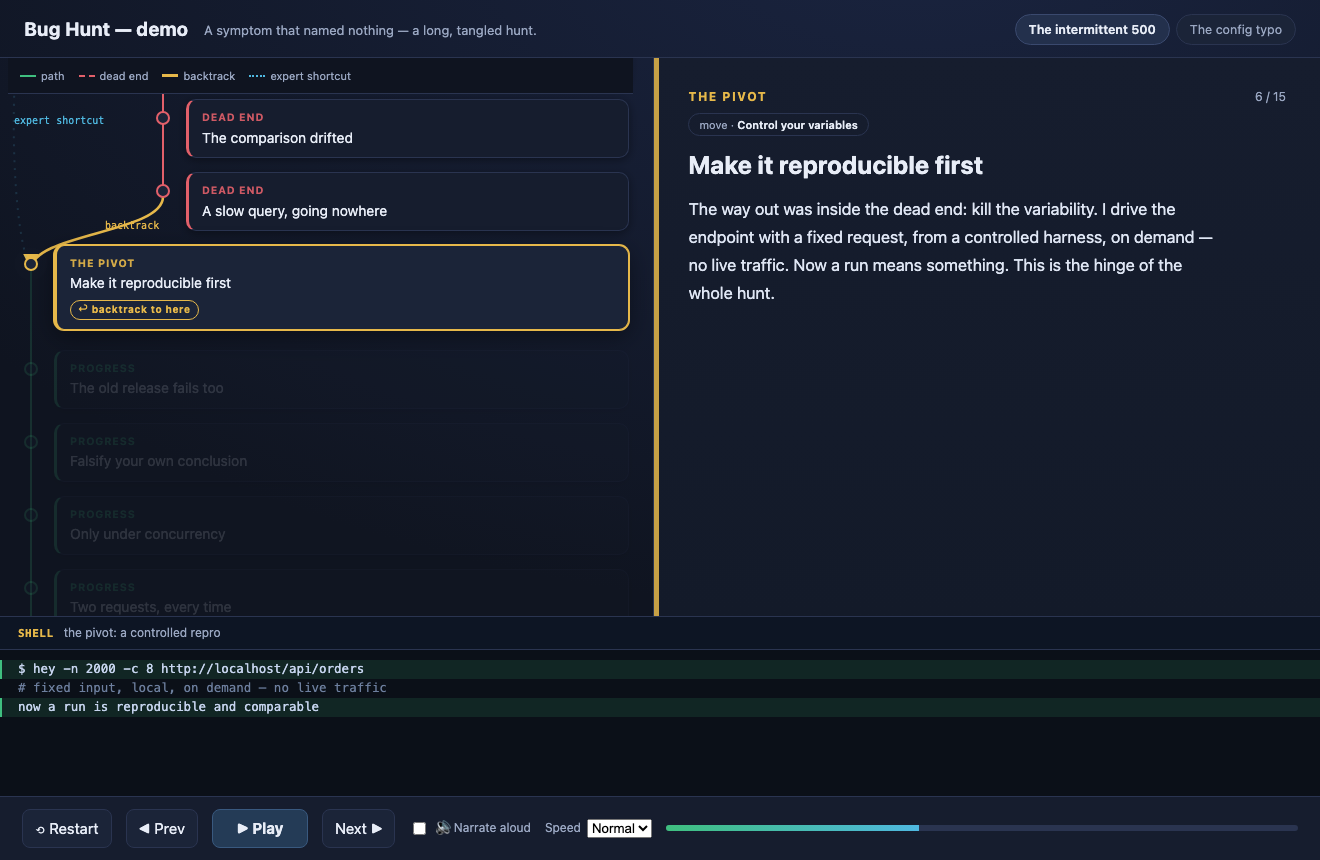
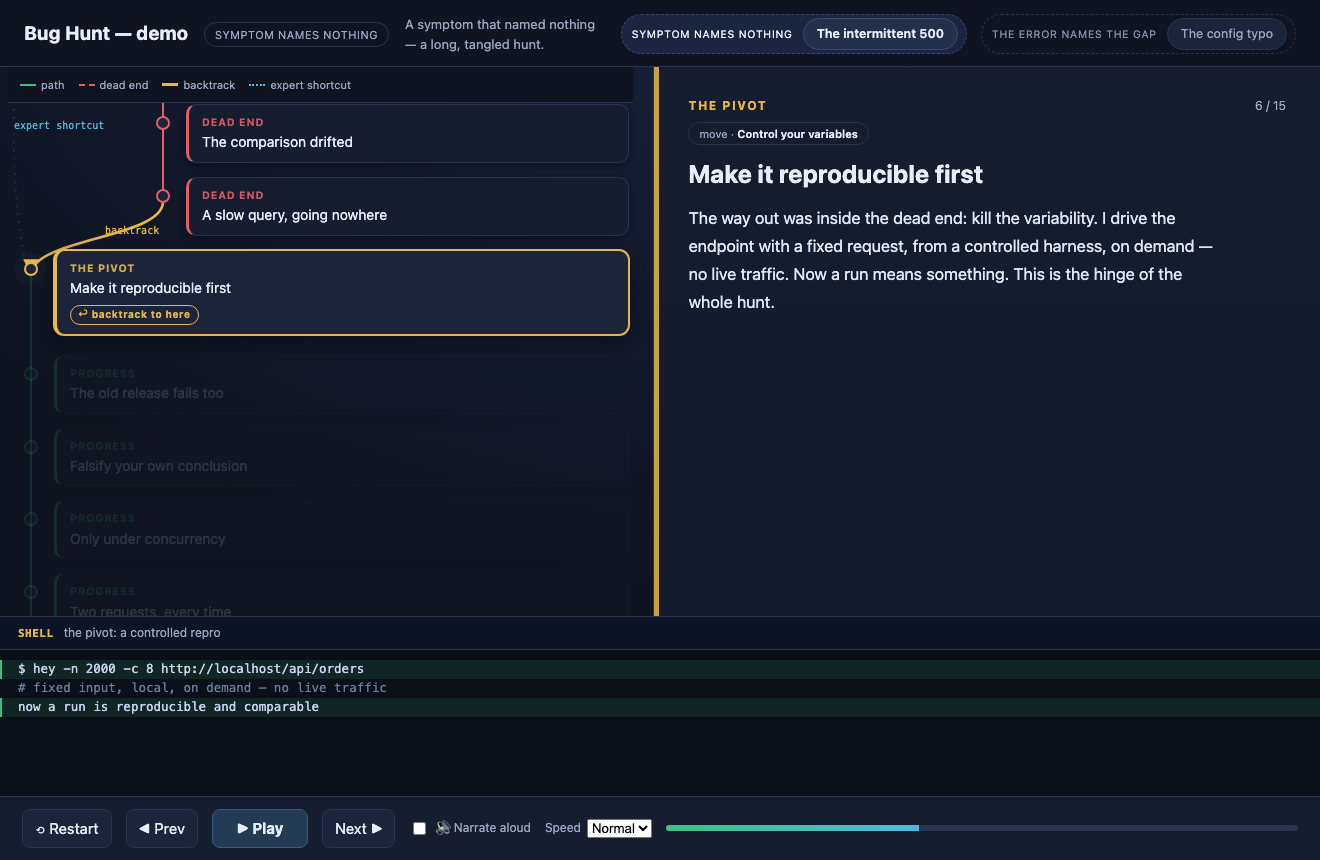
Group cases into clusters in the selector
Once there are more than a handful of hunts, a flat row of chips stops being
navigable and — more importantly — stops teaching anything. The insight in this
tool is the diff between graphs, so the selector should say which hunts are
meant to be compared.

Add an optional `window.CASE_GROUPS = [{id, name, blurb, cases:[...]}]`. Each
group renders as a labelled chip-group, the active one is highlighted, and the
selected case's cluster also appears as a pill beside the title (blurb as the
tooltip on both). Omit CASE_GROUPS and the selector is exactly the flat row it
was; cases in no group are appended unlabelled at the end.

The axis to cluster on is *what produced the decisive evidence* — not the kind
of bug. That is what dictates the shape of the graph, and so what the case can
teach. docs/moves.md replaces "The two shapes to contrast" with the four
clusters that fall out of it: symptom names nothing / the error names the gap /
an outside oracle found it / no symptom at all. The demo's two cases are
grouped into the first two, so the feature is self-demonstrating.

Also in docs/moves.md: nine moves that were already in use but undefined
(Bring a better oracle, Audit the invariant, Check upstream first, Narrow the
fix, Strengthen the repro, Fence the scope, Bisect (misapplied), Trace to the
origin, Find the gap). The point of the vocabulary is that ids match across
cases, so an undocumented move is a hole in it. For the same reason the demo's
[…]

diff --git a/index.html b/index.html
@@ -18,13 +18,29 @@
     font:15px/1.55 -apple-system,BlinkMacSystemFont,"Segoe UI",Roboto,Helvetica,Arial,sans-serif;
     display:flex;flex-direction:column;height:100vh;overflow:hidden}
   header{padding:14px 24px 12px;border-bottom:1px solid var(--line);
-    display:flex;align-items:center;gap:16px;flex-wrap:wrap}
+    display:flex;align-items:center;gap:16px;flex-wrap:wrap;
+    /* opaque: on narrow screens the header is sticky over a scrolling page,
+       and a transparent one lets the timeline show through it */
+    background:var(--bg)}
   header h1{font-size:19px;margin:0;letter-spacing:.2px}
   header .sub{color:var(--muted);font-size:13px;flex:1;min-width:180px}
-  .cases{display:flex;gap:6px;flex-wrap:wrap}
+  .cases{display:flex;gap:6px 14px;flex-wrap:wrap;align-items:center}
   .cases button{font:inherit;font-size:12.5px;color:var(--muted);background:var(--panel2);
     border:1px solid var(--line);border-radius:20px;padding:5px 13px;cursor:pointer}
   .cases button.on{color:var(--ink);border-color:#3a496e;background:#23304c;font-weight:600}
+  /* a cluster of cases that share a debugging technique */
+  .cases .grp{display:flex;align-items:center;gap:6px;padding:3px 8px 3px 4px;
+    border:1px dashed var(--line);border-radius:22px;
+    flex-wrap:wrap;max-width:100%;min-width:0}
+  .cases .grp>.glab{font-size:10.5px;letter-spacing:.7px;text-transform:uppercase;
+    color:var(--muted);opacity:.85;padding:0 4px 0 6px;cursor:help;white-space:nowrap;
+    max-width:100%;overflow:hidden;text-overflow:ellipsis}
+  .cases .grp.active{border-color:#3a496e;background:#1b2540}
+  .cases .grp.active>.glab{color:var(--ink);opacity:1}
+  header .cluster{font-size:11px;letter-spacing:.5px;text-transform:uppercase;
+    color:var(--muted);border:1px solid var(--line);border-radius:20px;
+    padding:3px 10px;white-space:nowrap;cursor:help}
+  header .cluster:empty{display:none}
   main{flex:1;display:grid;grid-template-columns:minmax(340px,1fr) minmax(360px,1.02fr);min-height:0}
   .timeline{overflow-y:auto;padding:0 20px 40vh 8px;position:relative}
   #edges{position:absolute;top:0;left:0;pointer-events:none;z-index:0;overflow:visible}
@@ -110,12 +126,22 @@
     .stage h2{font-size:20px}.narr{font-size:15px;max-width:none}
     .code{height:150px}
     footer{position:sticky;bottom:0;z-index:10}
+    /* the pill just repeats the highlighted group chip; the header is tight here */
+    header .cluster{display:none}
+    header .sub{flex-basis:100%}
+    /* give the selector the full row, and let each cluster label sit on its own
+       line above its chips — label + a long chip does not fit side by side */
+    .cases{flex-basis:100%;width:100%}
+    .cases .grp{width:100%}
+    .cases .grp>.glab{flex-basis:100%;padding-bottom:2px}
+    .cases button{max-width:100%}
   }
 </style>
 </head>
 <body>
   <header>
     <h1 id="apptitle">Bug Hunt</h1>
+    <span class="cluster" id="cluster"></span>
     <span class="sub" id="subtitle">—</span>
     <div class="cases" id="cases"></div>
   </header>
@@ -188,12 +214,34 @@ if(!CASE_IDS.length){
 function runEngine(){
 let state={cid:CASE_IDS[0],cur:-1}, nodeEls=[], playing=false, timer=null, curUtter=null, audioEl=null;
 
-CASE_IDS.forEach(cid=>{
+/* ---- selector, optionally clustered by technique -----------------------------
+   window.CASE_GROUPS = [{id, name, blurb, cases:[caseId,...]}, ...]
+   Cases not listed in any group are appended, unlabelled, at the end. With no
+   CASE_GROUPS at all the selector is a plain flat row (the original layout). */
+const GROUPS=(window.CASE_GROUPS||[]).filter(g=>g&&Array.isArray(g.cases));
+const GROUP_OF={};
+GROUPS.forEach(g=>g.cases.forEach(cid=>{ if(CASES[cid]) GROUP_OF[cid]=g; }));
+const UNGROUPED=CASE_IDS.filter(cid=>!GROUP_OF[cid]);
+
+function mkCaseBtn(cid){
   const b=document.createElement("button");
   b.textContent=CASES[cid].name||cid; b.dataset.cid=cid;
   b.onclick=()=>{ location.hash=cid+"-1"; };
-  $("cases").appendChild(b);
+  return b;
+}
+GROUPS.forEach(g=>{
+  const ids=g.cases.filter(cid=>CASES[cid]);
+  if(!ids.length) return;
+  const wrap=document.createElement("div");
+  wrap.className="grp"; wrap.dataset.gid=g.id||g.name||"";
+  const lab=document.createElement("span");
+  lab.className="glab"; lab.textContent=g.name||g.id||"";
+  if(g.blurb) lab.title=g.blurb;
+  wrap.appendChild(lab);
+  ids.forEach(cid=>wrap.appendChild(mkCaseBtn(cid)));
+  $("cases").appendChild(wrap);
 });
+UNGROUPED.forEach(cid=>$("cases").appendChild(mkCaseBtn(cid)));
 
 function buildTimeline(){
   const cs=CASES[state.cid];
@@ -284,7 +332,13 @@ function setPlaying(p){ playing=p; $("play").textContent=p?"⏸ Pause":"▶ Play
 function switchCase(cid){
   setPlaying(false); state.cid=cid; state.cur=-1;
   $("subtitle").textContent=CASES[cid].sub||"";
-  [...$("cases").children].forEach(b=>b.classList.toggle("on",b.dataset.cid===cid));
+  [...document.querySelectorAll("#cases button")].forEach(b=>b.classList.toggle("on",b.dataset.cid===cid));
+  const g=GROUP_OF[cid];
+  [...document.querySelectorAll("#cases .grp")].forEach(w=>
+    w.classList.toggle("active", !!g && w.dataset.gid===(g.id||g.name||"")));
+  const pill=$("cluster");
+  pill.textContent=g?(g.name||g.id||""):"";
+  pill.title=g&&g.blurb?g.blurb:"";
   buildTimeline(); render(0);
   requestAnimationFrame(()=>requestAnimationFrame(drawEdges));
 }

diff --git a/cases.js b/cases.js
@@ -67,7 +67,7 @@ const RACE_EDGES = [
  {f:0,t:1,type:"seq"},{f:1,t:2,type:"branch"},{f:2,t:3,type:"seq"},{f:3,t:4,type:"seq"},
  {f:4,t:5,type:"backtrack"},{f:5,t:6,type:"seq"},{f:6,t:7,type:"seq"},{f:7,t:8,type:"seq"},
  {f:8,t:9,type:"seq"},{f:9,t:10,type:"seq"},{f:10,t:11,type:"seq"},{f:11,t:12,type:"seq"},
- {f:12,t:13,type:"seq"},{f:1,t:5,type:"shortcut"},
+ {f:12,t:13,type:"seq"},{f:13,t:14,type:"seq"},{f:1,t:5,type:"shortcut"},
 ];
 
 /* ---- Case 2: a straight hunt (an error that names the gap) ---- */
@@ -78,7 +78,7 @@ const CFG_STEPS = [
   narr:`The first move is to stop hiding the error: run it in the foreground and read stderr. It says exactly what is wrong — <code>config.yaml:12: unknown key "timout"</code>.`},
  {chapter:"See the real error",kind:"win",move:"Localize from the message",lane:0,title:"The message names it",
   narr:`That message is a gift: it names the file, the line, and the offending key. There is nothing to search for — the program has already localized the bug for me.`},
- {chapter:"Look it up",kind:"win",move:"Read the line",lane:0,title:"Line 12 has a typo",
+ {chapter:"Look it up",kind:"win",move:"Localize from the message",lane:0,title:"Line 12 has a typo",
   narr:`Open <code>config.yaml</code> at line 12: <code>timout: 30</code>. A single missing <code>e</code> — it should be <code>timeout</code>.`},
  {chapter:"The root cause",kind:"root",move:"Find the gap",lane:0,title:"Strict schema, unknown key",
   narr:`The loader validates against a schema that only knows <code>timeout</code>, and it runs in strict mode, so an unknown key is a hard error. The typo simply isn't a key it recognizes.`},
@@ -107,3 +107,22 @@ window.CASES = {
  config:{name:"The config typo", sub:"An error that named the gap — a near-straight descent.",
    steps:CFG_STEPS, code:CFG_CODE, edges:CFG_EDGES, audio:/*AUDIO_config_START*/null/*AUDIO_config_END*/},
 };
+
+/* ---- Clusters (optional) --------------------------------------------------
+ * Group hunts by WHAT PRODUCED THE DECISIVE EVIDENCE — that is what dictates
+ * the shape of the graph, and so what the case can teach. The player renders
+ * one labelled chip-group per cluster; drop this and the selector is a plain
+ * flat row. See docs/moves.md ("Clusters") and docs/authoring.md.
+ * ------------------------------------------------------------------------ */
+window.CASE_GROUPS = [
+  {id:"noname", name:"Symptom names nothing",
+   blurb:"The failure carries no information, so the hunt must first manufacture a "+
+         "signal by removing noise. Shape: tangled — hypothesis, dead end, backtrack, "+
+         "then the real descent. Decisive move: Control your variables.",
+   cases:["race"]},
+  {id:"named", name:"The error names the gap",
+   blurb:"The failure names a file, a line, a missing thing. The work is to read it "+
+         "rather than investigate around it. Shape: near-straight. Decisive moves: "+
+         "Un-hide the error, Localize from the message.",
+   cases:["config"]},
+];

diff --git a/docs/moves.md b/docs/moves.md
@@ -28,16 +28,42 @@ compiler crash, or a failing deploy equally.
 | **Localize from the message** | Let a precise error name the file/line/thing. | When the program tells you what's wrong, read it — don't investigate. |
 | **Fix + lock** | Fix the mechanism, then add a test that fails-before / passes-after. | Makes the fix a fact, not a hope; stops silent regressions. |
 | **Lesson** | The retrospective: the one move you'd start with next time. | This is what the student actually takes away. |
+| **Bring a better oracle** | Run a test you did not write — a conformance suite, someone else's corpus. | Your own tests encode the same assumptions as your bug. |
+| **Audit the invariant** | State what the code must always keep true, then check the code against that sentence. | The only way to reach a bug whose output is still correct. |
+| **Check upstream first** | Before patching vendored/third-party code, look whether upstream already fixed it. | Cheaper than reinventing, and stops you diverging from a fix that exists. |
+| **Narrow the fix** | Condition the change on exactly the case that is broken. | A fix that cannot reach the common path cannot regress it. |
+| **Strengthen the repro** | Make the test assert the *behaviour*, not just that the thing no longer errors. | "It parses now" would pass even if you mapped it to the wrong meaning. |
+| **Fence the scope** | When the hunt turns up a *second* bug, name it and leave it. | A patch that quietly grows is a patch nobody can verify. |
+| **Bisect (misapplied)** | Bisecting before the comparison is stable. | The classic trap: it returns a confident, wrong answer. |
+| **Trace to the origin** | Walk a value back to the code that first constructs it. | Where it is *born* is where the fix belongs. |
+| **Find the gap** | Name the missing case precisely — the type with no home, the keyword with no token. | Turns "it's broken" into a one-line change. |
 
-## The two shapes to contrast
 
-- **A symptom that names nothing** (a segfault, an intermittent 500) tends to
-  produce a *tangled* graph: a tempting hypothesis, a dead-end detour, a
-  backtrack, then the real descent. The expert shortcut is usually **Control
-  your variables**, made first.
-- **An error that names the gap** (a strict-schema rejection, a "field not
-  found") tends to produce a *straight* graph: **Un-hide the error → Localize →
-  fix.** Almost no dead ends.
+## Clusters — group hunts by what produced the decisive evidence
+
+One graph illustrates a hunt; the insight is in the **diff between graphs**. The
+most useful axis to group them on is not the kind of bug (a race, a typo, a
+parser gap) but **what handed you the evidence that cracked it** — because that
+is what dictates the shape of the graph, and therefore what the case can teach.
+
+| Cluster | The failure gives you | Typical shape | Decisive move |
+|---|---|---|---|
+| **Symptom names nothing** | A bare crash, an intermittent error — no information | **Tangled**: tempting hypothesis → dead-end detour → backtrack → real descent | *Control your variables* |
+| **The error names the gap** | A file, a line, a missing thing | **Near-straight**: read it, localize, fix | *Un-hide the error*, *Localize from the message* |
+| **An outside oracle found it** | Nothing of your own — someone else's test failed | **Straight**, and ends by widening the net that caught it | *Bring a better oracle* |
+| **No symptom at all** | Nothing; the program is behaving correctly | **Short**, no dead ends, nothing to react to | *Audit the invariant* |
+
+The first two are opposites and make the sharpest pair to show side by side: a
+symptom that names nothing produces dead ends and a backtrack, while an error
+that names the gap collapses to an errand. The third is the reminder that most
+of your blind spots are only visible through a test you did not write. The
+fourth is the one people forget exists — a bug with correct output, reachable
+only by naming the invariant it violates.
+
+A player can render these as labelled groups; see `docs/authoring.md`
+(`window.CASE_GROUPS`).
+
+## The novice/expert contrast
 
 Teaching insight: compare a novice traversal to an expert traversal of the
 *same* bug. The expert's graph is shorter because they front-load one or two

diff --git a/README.md b/README.md
@@ -28,6 +28,12 @@ Controls: **Play/Pause**, **Prev/Next**, **Restart**, speed, and **Narrate
 aloud** (uses the browser's built-in speech, or pre-rendered audio if present).
 Keyboard: space / ← / → / R. Deep-link a step with `#<case>-<step>` in the URL.
 
+Once you have more than a handful of hunts, group them: set
+`window.CASE_GROUPS` and the selector renders labelled **clusters** instead of
+one flat row, with the active cluster shown as a pill beside the title. Cluster
+hunts by *what produced the decisive evidence* — see
+[`docs/moves.md`](docs/moves.md).
+
 The point is **contrast**: put a tangled hunt next to a straight one and the
 lesson — *what made the difference* — falls out of the shape.
 
@@ -45,6 +51,10 @@ matching entry in `code[]`, and `edges[]` wires the graph
 
 - `scripts/extract-graph.py` turns a captured session log (JSON-lines of
   reasoning + actions) into a `cases.js` **skeleton** you then tag and prose up.
+- `scripts/validate-cases.js` checks a finished `cases.js` against the
+  invariants the player assumes but never verifies at runtime (`code[]` aligned
+  with `steps[]`, edge endpoints in range, every step tagged with a documented
+  move, groups referencing real cases). Exits non-zero, so it can gate a commit.
 - `scripts/render-narration.sh` (macOS + [Piper](https://github.com/rhasspy/piper))
   renders natural speech per step and embeds it — optional; the browser voice
   works everywhere with zero setup.
@@ -57,8 +67,8 @@ One graph *illustrates* a hunt; the insight is in the **diff between graphs**.
 Tag every step with a move from a small shared vocabulary and you can compare
 hunts structurally: which moves appear, in what order, where the dead ends
 cluster, how a novice path differs from the expert one. The demo ships two cases
-with deliberately opposite shapes — a tangle and a straight line — to show what
-that comparison looks like.
+with deliberately opposite shapes — a tangle and a straight line — in their two
+clusters, to show what that comparison looks like.
 
 ## License
 

diff --git a/docs/authoring.md b/docs/authoring.md
@@ -20,6 +20,27 @@ window.CASES = {
 };
 ```
 
+### Clusters (optional)
+
+Set `window.CASE_GROUPS` to render the selector as labelled groups instead of
+one flat row. Group hunts by **what produced the decisive evidence** — that is
+what dictates the shape of the graph, and so what the case can teach (see
+[`moves.md`](moves.md), "Clusters").
+
+```js
+window.CASE_GROUPS = [
+  {id:"named",                       // stable id (used for the active highlight)
+   name:"The error names the gap",   // the little uppercase label
+   blurb:"...",                      // tooltip on the label and on the header pill
+   cases:["race","config"]},         // case ids, in the order to show them
+];
+```
+
+A case may appear in **one** group at most. Cases in no group are appended,
+unlabelled, at the end. Omit `CASE_GROUPS` entirely and the selector looks
+exactly as it did before. The selected case's group name also shows as a pill
+next to the page title, with the blurb as its tooltip.
+
 ### A step
 
 ```js
@@ -94,3 +115,15 @@ If you captured a debugging session as JSON-lines (reasoning + tool calls),
 one step per reasoning/action beat, with `kind`/`lane`/`move`/`edges` left for
 you to fill in. It does the transcription; you do the judgement (which beats were
 dead ends, what the lesson was).
+
+## Check it before you ship it
+
+```
+node scripts/validate-cases.js cases.js docs/moves.md
+```
+
+Verifies what the player assumes but never checks at runtime — `code[]` the same
+length as `steps[]`, edge endpoints in range, known `kind`/`lane`/edge types,
+every step tagged with a move, `CASE_GROUPS` referencing real cases with no
+duplicates, and (when given a `moves.md`) that every move used is documented
+there. Exits non-zero on error, so it can gate a commit.
